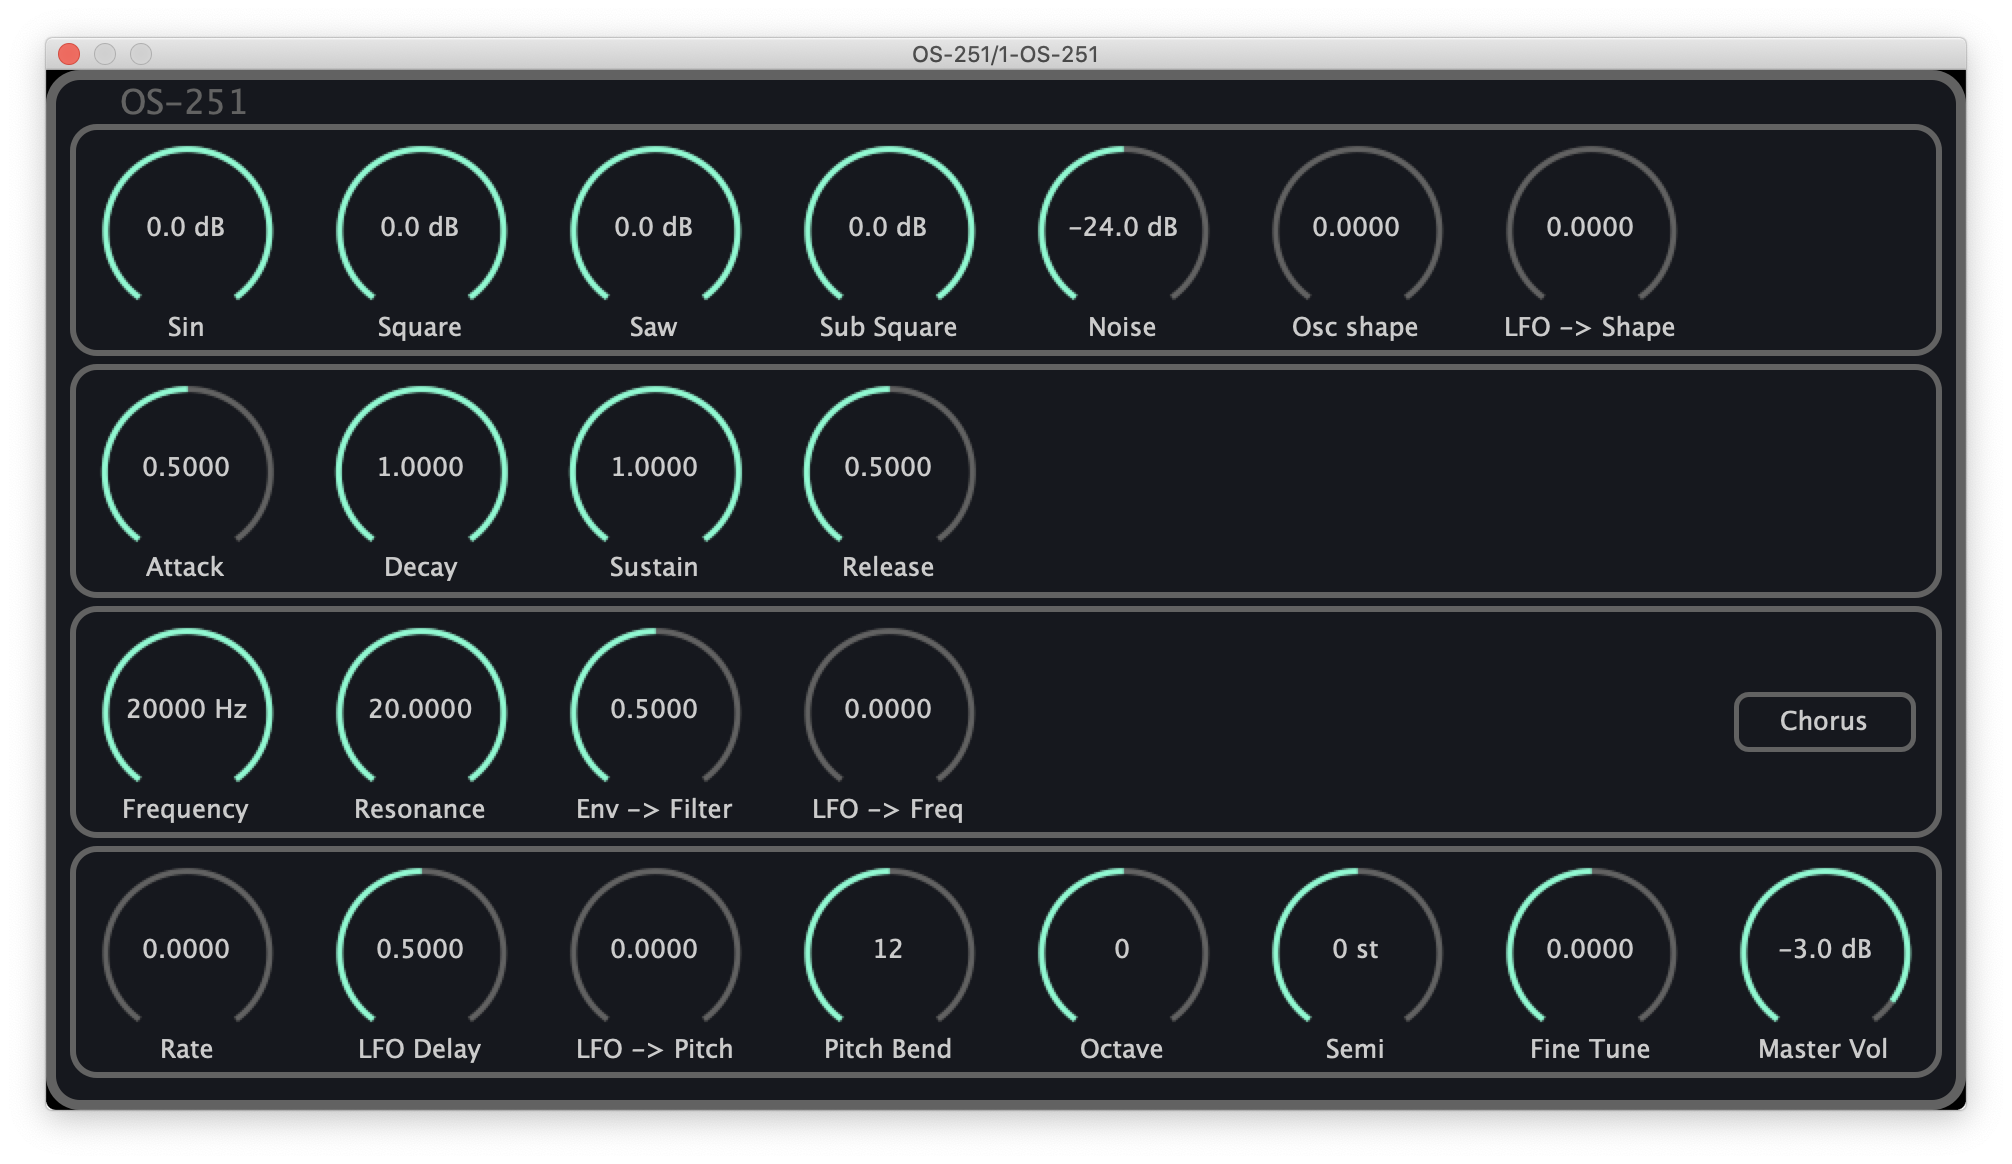
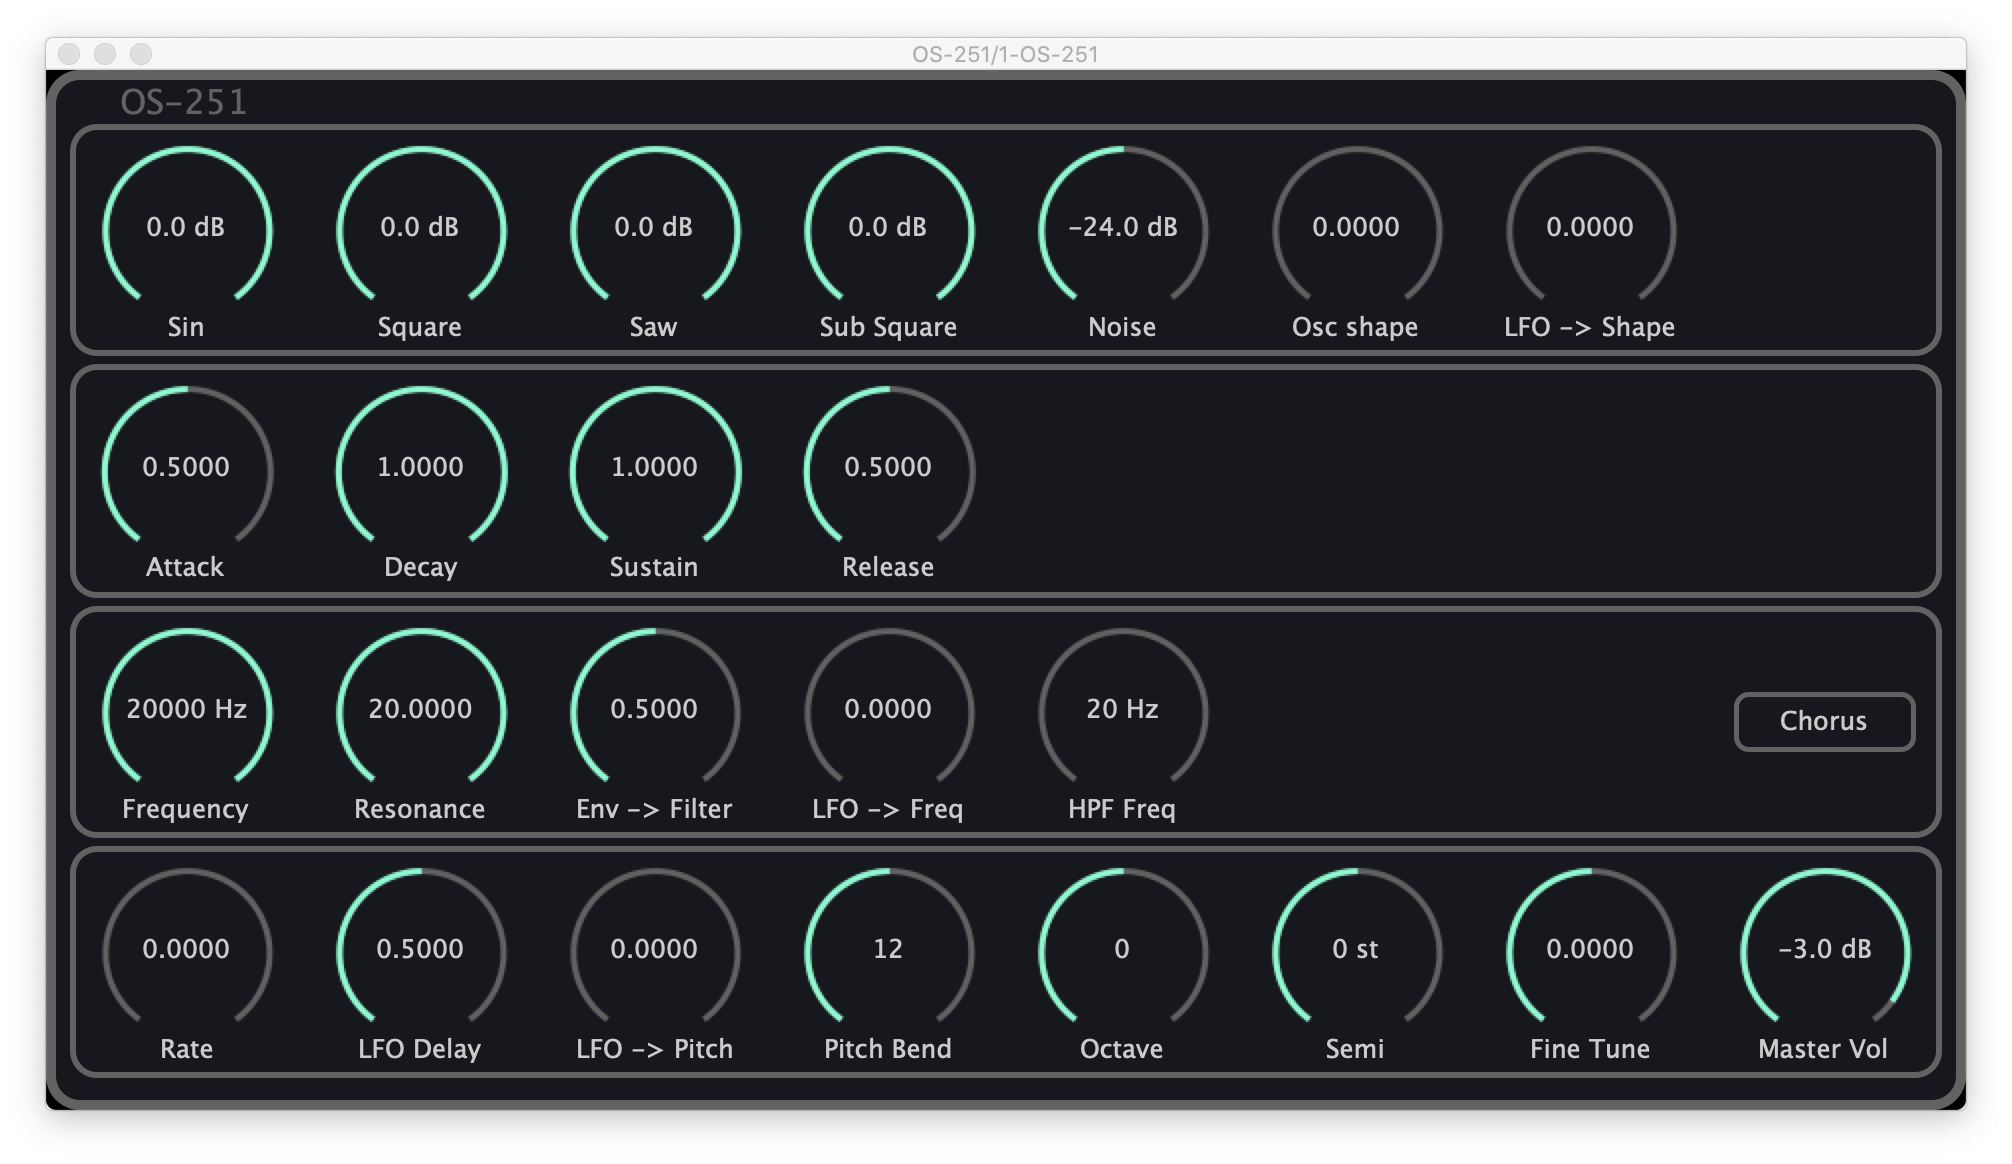
Add one knob HPF

diff --git a/src/jsui/src/App.js b/src/jsui/src/App.js
@@ -169,7 +169,10 @@ class App extends Component {
               paramId="lfoFilterFreq"
               paramLabel="LFO -> Freq"
             />
-            <DummyModule />
+            <SliderModule
+              paramId="hpfFreq"
+              paramLabel="HPF Freq"
+            />
             <DummyModule />
             <DummyModule />
             <ButtonModule

diff --git a/src/Hpf.h b/src/Hpf.h
@@ -1,0 +1,93 @@
+/*
+  ==============================================================================
+
+   Filter
+
+  ==============================================================================
+*/
+
+#pragma once
+
+#include "DspCommon.h"
+#include "Envelope.h"
+#include "Lfo.h"
+#include "SynthParams.h"
+#include <JuceHeader.h>
+
+namespace onsen
+{
+//==============================================================================
+class Hpf
+{
+    using flnum = float;
+    struct FilterBuffer
+    {
+    public:
+        FilterBuffer() : in1 (0.0), in2 (0.0), out1 (0.0), out2 (0.0) {}
+        ~FilterBuffer() = default;
+        ;
+        flnum in1, in2;
+        flnum out1, out2;
+    };
+
+public:
+    Hpf() = delete;
+    Hpf (SynthParams* const synthParams, int _numChannels)
+        : p (synthParams->hpf()),
+          sampleRate (DEFAULT_SAMPLE_RATE),
+          numChannels (_numChannels),
+          filterBuffers (numChannels)
+    {
+    }
+
+    void render (juce::AudioBuffer<flnum>& outputAudio, int startSample, int numSamples)
+    {
+        // Set biquad parameter coefficients
+        // https://webaudio.github.io/Audio-EQ-Cookbook/audio-eq-cookbook.html
+        flnum omega0 = 2.0f * 3.14159265f * p->getFrequency() / sampleRate;
+        flnum sinw0 = std::sin (omega0);
+        flnum cosw0 = std::cos (omega0);
+        constexpr flnum resonance = 1.0;
+        flnum alpha = sinw0 / 2.0 / resonance;
+        flnum a0 = 1.0 + alpha;
+        flnum a1 = -2.0 * cosw0;
+        flnum a2 = 1.0 - alpha;
+        flnum b0 = (1 + cosw0) / 2.0;
+        flnum b1 = -1 - cosw0;
+        flnum b2 = (1 + cosw0) / 2.0;
+
+        // Calculate
+        int numInputChannels = outputAudio.getNumChannels();
+        int bufferSize = outputAudio.getNumSamples();
+        for (int channel = 0; channel < std::min (numChannels, numInputChannels); channel++)
+        {
+            FilterBuffer& fb = filterBuffers[channel];
+            float* bufferPtr = outputAudio.getWritePointer (channel);
+            for (int i = startSample; i < bufferSize && i < startSample + numSamples; i++)
+            {
+                flnum out0 = b0 / a0 * bufferPtr[i] + b1 / a0 * fb.in1 + b2 / a0 * fb.in2
+                             - a1 / a0 * fb.out1 - a2 / a0 * fb.out2;
+                fb.in2 = fb.in1;
+                fb.in1 = bufferPtr[i];
+
+                fb.out2 = fb.out1;
+                fb.out1 = out0;
+
+                bufferPtr[i] = out0;
+            }
+        }
+    }
+
+    void setCurrentPlaybackSampleRate (double _sampleRate)
+    {
+        sampleRate = static_cast<flnum> (_sampleRate);
+    }
+
+private:
+    const HpfParams* const p;
+    flnum sampleRate;
+    int numChannels;
+    // The length of this vector equals to max number of the channels;
+    std::vector<FilterBuffer> filterBuffers;
+};
+} // namespace onsen

diff --git a/src/PluginProcessor.cpp b/src/PluginProcessor.cpp
@@ -175,6 +175,12 @@ Os251AudioProcessor::Os251AudioProcessor()
     filterParams->setFilterEnvelopePtr (parameters.getRawParameterValue (("filterEnv")));
     parameters.addParameterListener ("filterEnv", this);
 
+    // HPF parameters
+    onsen::HpfParams* const hpfParams = synthParams.hpf();
+    parameters.createAndAddParameter (std::make_unique<Parameter> ("hpfFreq", "HPF Freq", "", nrange, 0.0, valueToFreqFunction, nullptr, true));
+    hpfParams->setFrequencyPtr (parameters.getRawParameterValue ("hpfFreq"));
+    parameters.addParameterListener ("hpfFreq", this);
+
     // Chorus parameters
     onsen::ChorusParams* const chorusParams = synthParams.chorus();
 
@@ -392,12 +398,14 @@ void Os251AudioProcessor::parameterChanged (const juce::String& parameterID, flo
     onsen::LfoParams* const lfoParams = synthParams.lfo();
     onsen::FilterParams* const filterParams = synthParams.filter();
     onsen::ChorusParams* const chorusParams = synthParams.chorus();
+    onsen::HpfParams* const hpfParams = synthParams.hpf();
     onsen::MasterParams* const master = synthParams.master();
     oscillatorParams->parameterChanged();
     envelopeParams->parameterChanged();
     lfoParams->parameterChanged();
     filterParams->parameterChanged();
     chorusParams->parameterChanged();
+    hpfParams->parameterChanged();
     master->parameterChanged();
 }
 

diff --git a/src/params/HpfParams.h b/src/params/HpfParams.h
@@ -1,0 +1,50 @@
+/*
+  ==============================================================================
+
+   HPF Parameters
+
+  ==============================================================================
+*/
+
+#pragma once
+
+#include "../DspCommon.h"
+
+namespace onsen
+{
+//==============================================================================
+class HpfParams
+{
+public:
+    flnum getFrequency() const
+    {
+        return lowestFreqVal() * pow (freqBaseNumber(), frequencyVal);
+    }
+    void setFrequencyPtr (const std::atomic<flnum>* _frequency)
+    {
+        frequency = _frequency;
+        frequencyVal = *frequency;
+    }
+    void parameterChanged()
+    {
+        frequencyVal = *frequency;
+    }
+
+    // ---
+    // Parameter converting consts
+    // Frequency
+    static constexpr flnum lowestFreqVal()
+    {
+        return 20.0; // [Hz]
+    }
+    static constexpr flnum freqBaseNumber()
+    {
+        return 1000.0;
+    }
+
+private:
+    const std::atomic<flnum>* frequency {};
+
+    flnum frequencyVal = 0.0;
+};
+} // namespace onsen

diff --git a/src/SynthEngine.h b/src/SynthEngine.h
@@ -8,13 +8,14 @@
 
 #pragma once
 
-#include <JuceHeader.h>
-#include "DspCommon.h"
-#include "SynthParams.h"
 #include "Chorus.h"
+#include "DspCommon.h"
+#include "Hpf.h"
 #include "Lfo.h"
 #include "MasterVolume.h"
+#include "SynthParams.h"
 #include "SynthVoice.h"
+#include <JuceHeader.h>
 
 namespace onsen
 {
@@ -28,8 +29,9 @@ public:
     FancySynth (SynthParams* const synthParams, Lfo* const _lfo)
         : params (synthParams),
           lfo (_lfo),
+          hpf (params, 2),
           chorus(),
-          masterVolume(synthParams)
+          masterVolume (synthParams)
     {
     }
 
@@ -48,13 +50,13 @@ public:
 private:
     SynthParams* const params;
     Lfo* const lfo;
+    Hpf hpf;
     Chorus chorus;
     MasterVolume masterVolume;
 
     void renderVoices (juce::AudioBuffer<flnum>& outputAudio,
                        int startSample,
                        int numSamples) override;
-
 };
 
 //==============================================================================

diff --git a/src/SynthParams.h b/src/SynthParams.h
@@ -12,6 +12,7 @@
 #include "params/ChorusParams.h"
 #include "params/EnvelopeParams.h"
 #include "params/FilterParams.h"
+#include "params/HpfParams.h"
 #include "params/LfoParams.h"
 #include "params/MasterParams.h"
 #include "params/OscillatorParams.h"
@@ -43,6 +44,10 @@ public:
     {
         return &chorusParams;
     }
+    HpfParams* hpf()
+    {
+        return &hpfParams;
+    }
     MasterParams* master()
     {
         return &masterParams;
@@ -50,7 +55,7 @@ public:
 
     void prepareToPlay (int samplesPerBlockExpected, double sampleRate)
     {
-        oscillatorParams.prepareToPlay(samplesPerBlockExpected, sampleRate);
+        oscillatorParams.prepareToPlay (samplesPerBlockExpected, sampleRate);
     }
 
 private:
@@ -60,6 +65,7 @@ private:
     FilterParams filterParams;
     OscillatorParams oscillatorParams;
     ChorusParams chorusParams;
+    HpfParams hpfParams;
     MasterParams masterParams;
 };
-}
+} // namespace onsen

diff --git a/src/SynthEngine.cpp b/src/SynthEngine.cpp
@@ -54,6 +54,7 @@ void FancySynth::renderVoices (juce::AudioBuffer<flnum>& outputAudio,
 {
     lfo->renderLfo (startSample, numSamples);
     juce::Synthesiser::renderVoices (outputAudio, startSample, numSamples);
+    hpf.render (outputAudio, startSample, numSamples);
     if (params->chorus()->getChorusOn())
         chorus.render (outputAudio, startSample, numSamples);
     masterVolume.render (outputAudio, startSample, numSamples);

diff --git a/README.md b/README.md
@@ -15,7 +15,7 @@ This plugin is currently under development.
 ### Functionality
 
 - [ ] Add "About" to UI
-- [ ] One knob HPF
+- [x] One knob HPF
 - [x] LFO -> Shape parameter
 - [x] Master pitch setting (3 knobs)
 - [x] Pitchbend width setting
